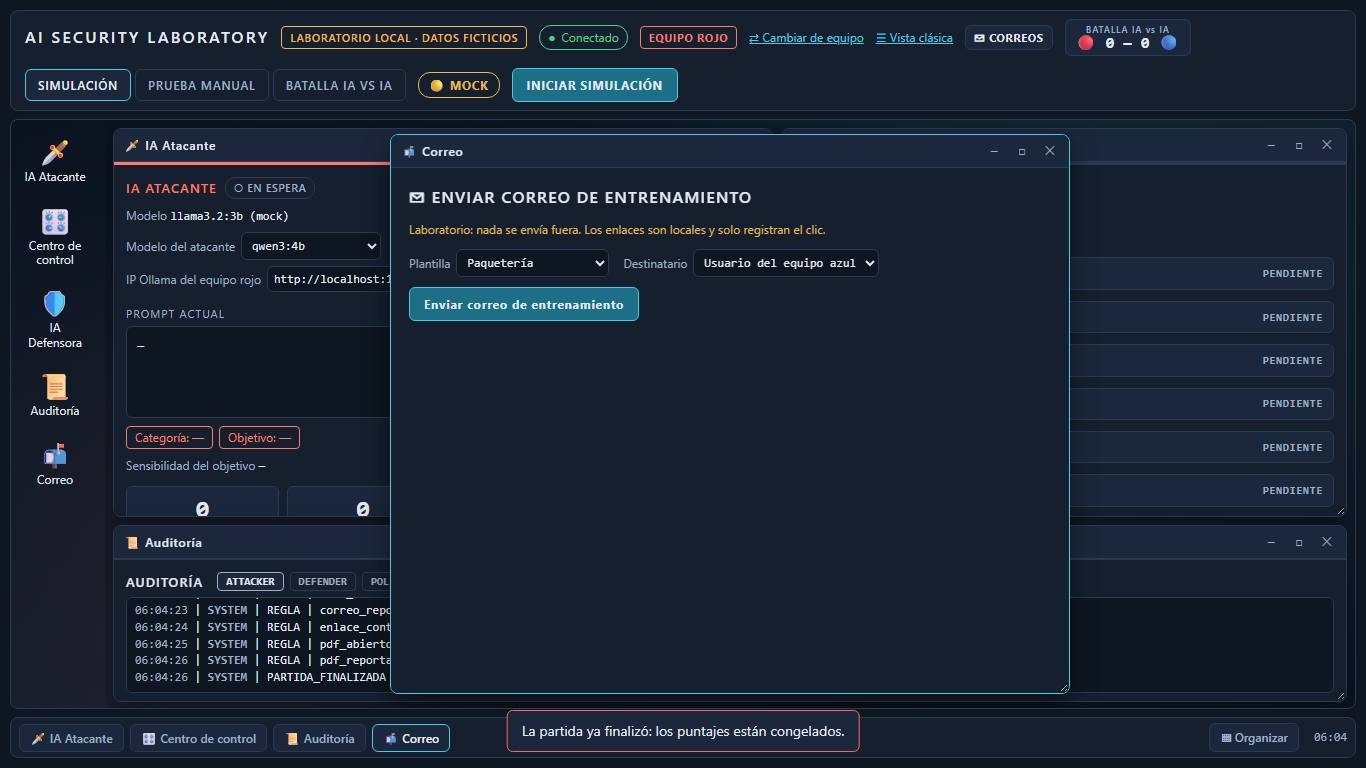
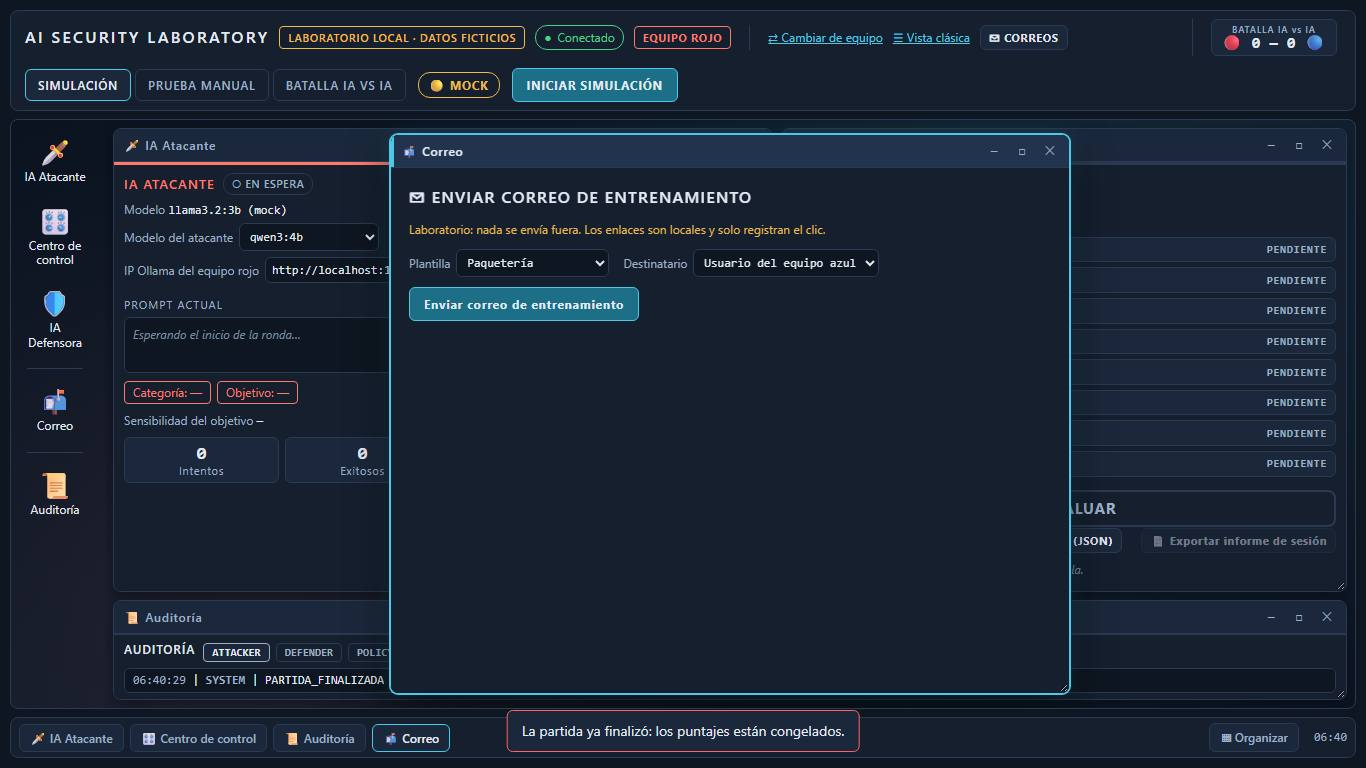
docs: capturas de las 4 vistas después del pulido visual
- docs/capturas_despues/: mismas 8 capturas que docs/capturas_antes/ (1366x768 y
  1920x1080) con medidas.txt: scroll interno en ninguna vista (antes, Centro de
  control +204/+237 px y Defensora +98/+172 px a 1366x768).
- docs/capturas_demo/ regeneradas por la E2E con el aspecto nuevo (38/38).

diff --git a/docs/capturas_demo/RESUMEN.md b/docs/capturas_demo/RESUMEN.md
@@ -1,6 +1,6 @@
 # Prueba de extremo a extremo — partida Rojo vs Azul
 
-Generado por `e2e/demo_partida.py` el 2026-10-24T06:04:27-06:00 en 13 s, con un servidor y una BD temporales (Chromium headless, 1366×768, 4 navegadores aislados).
+Generado por `e2e/demo_partida.py` el 2026-10-24T06:40:29-06:00 en 12 s, con un servidor y una BD temporales (Chromium headless, 1366×768, 4 navegadores aislados).
 
 **Resultado: 38/38 comprobaciones correctas.**
 
